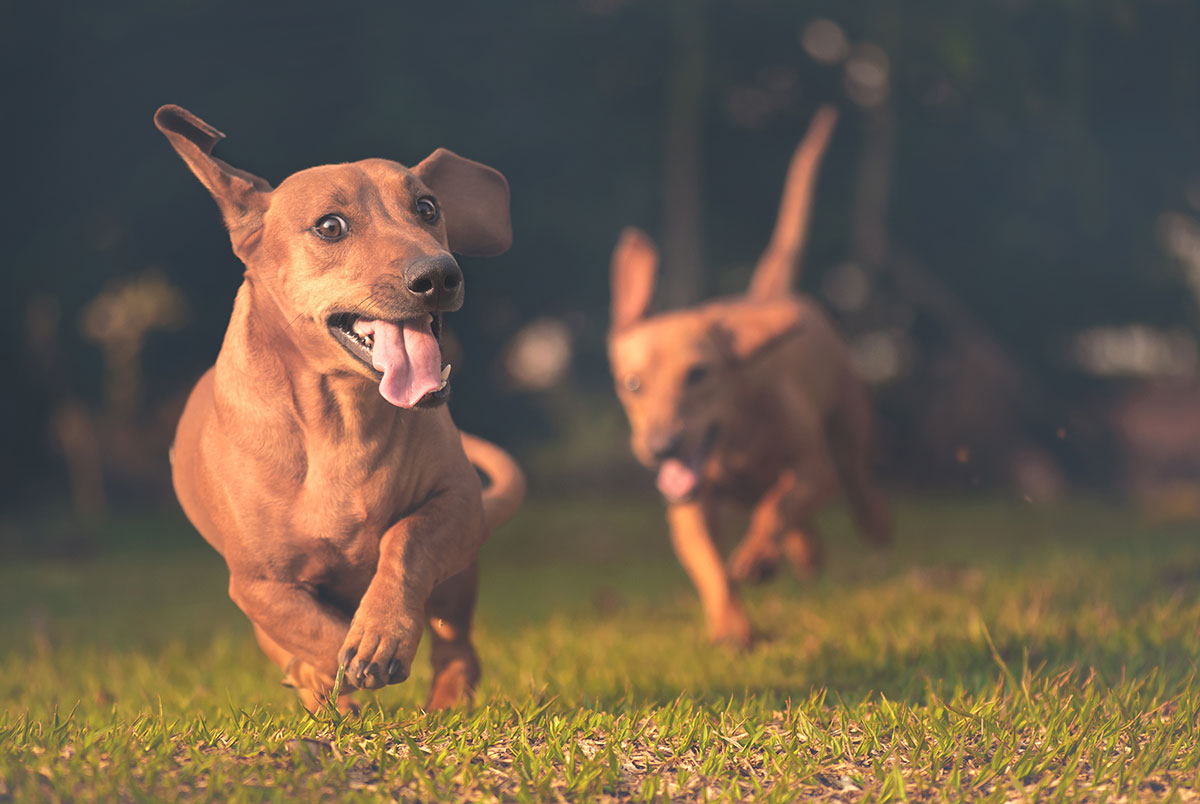
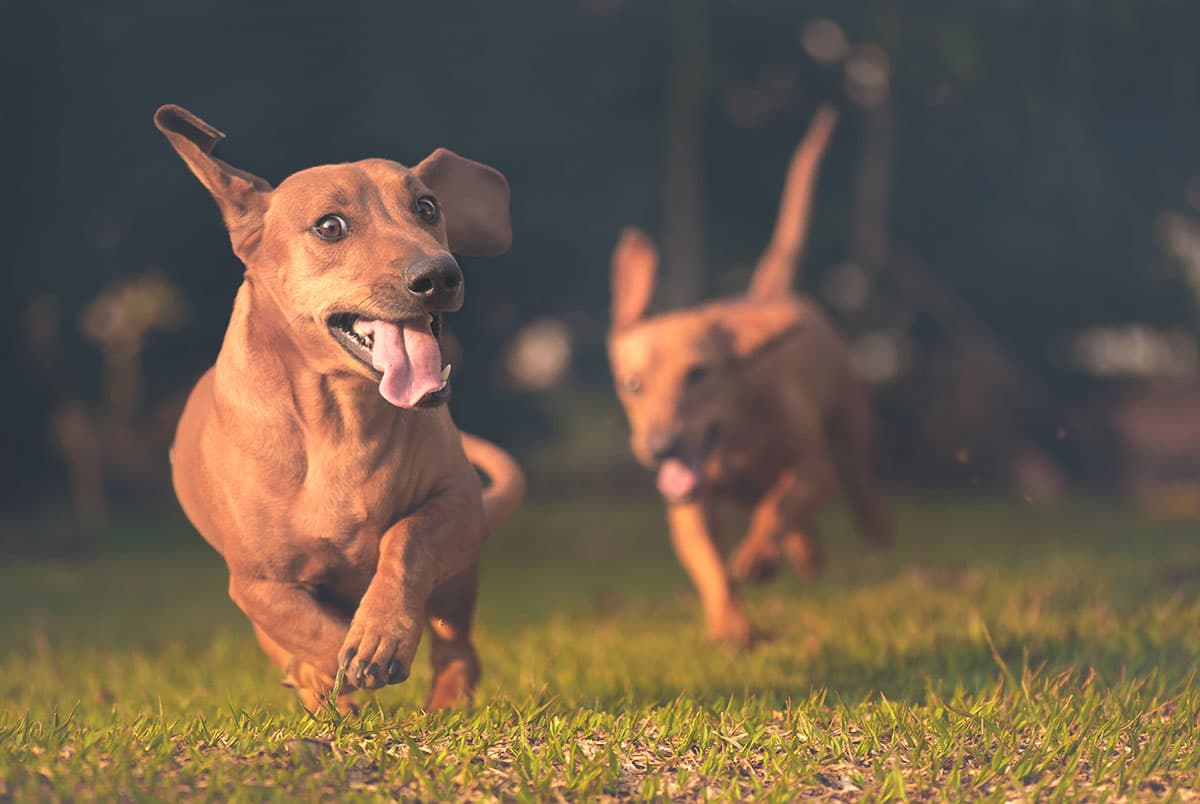
image optimisation

Changed region(s): [[0.0925, 0.8706, 1.0, 0.995]]

diff --git a/src/components/sections/CarteCabinet.tsx b/src/components/sections/CarteCabinet.tsx
@@ -1,4 +1,4 @@
-import React from 'react';
+import { useEffect } from 'react';
 import { useHasMounted } from '../../hooks/useHasMounted';
 
 import { Map } from '../common/icons';
@@ -13,9 +13,32 @@ type CarteCabinetProps = {
 
 export default function CarteCabinet({ id }: CarteCabinetProps) {
   const hasMounted = useHasMounted();
+
+  // Lazy load Mapbox CSS only when component mounts
+  useEffect(() => {
+    const link = document.createElement('link');
+    link.rel = 'stylesheet';
+    link.href = 'https://api.mapbox.com/mapbox-gl-js/v2.8.1/mapbox-gl.css';
+    document.head.appendChild(link);
+
+    return () => {
+      document.head.removeChild(link);
+    };
+  }, []);
   return (
-    <div id={id} className="relative bg-white pb-32 overflow-hidden">
+    <div
+      id={id}
+      className="relative bg-white pb-32 overflow-hidden min-h-[600px] sm:min-h-[650px]"
+    >
       <div className="relative">
+        <h2 className="pt-16 text-center text-3xl leading-8 font-extrabold tracking-tight text-gold-600 sm:text-4xl">
+          Consultations en Cabinet à Bègles
+        </h2>
+        <p className="mt-4 max-w-3xl mx-auto text-center text-xl text-gray-500">
+          Nous sommes ravis de vous accueillir dans notre cabinet situé à
+          Bègles. Profitez d'un environnement professionnel et adapté pour les
+          soins de vos animaux.
+        </p>
         <div className="lg:mx-auto lg:max-w-7xl lg:px-8 lg:grid lg:grid-cols-2 lg:grid-flow-col-dense lg:gap-24">
           <div className="px-4 max-w-xl mx-auto sm:px-6 lg:py-16 lg:max-w-none lg:mx-0 lg:px-0">
             <div>
@@ -60,6 +83,14 @@ export default function CarteCabinet({ id }: CarteCabinetProps) {
           <div className="mt-12 sm:mt-16 lg:mt-0" style={{ height: '400px' }}>
             <div className="lg:relative h-full sm:p-4">
               <div className="h-full sm:rounded-xl sm:shadow-xl ring-1 ring-black ring-opacity-5 overflow-hidden">
+                {!hasMounted && (
+                  <div className="h-full w-full flex items-center justify-center bg-gray-100">
+                    <div className="text-center">
+                      <div className="inline-block animate-spin rounded-full h-8 w-8 border-b-2 border-gold-500 mb-4"></div>
+                      <p className="text-gray-500">Chargement de la carte...</p>
+                    </div>
+                  </div>
+                )}
                 {hasMounted && (
                   <MapBox lng={LNG} lat={LAT} label="Cabinet de Bègles" />
                 )}

diff --git a/src/components/sections/AnimalSection/Section.tsx b/src/components/sections/AnimalSection/Section.tsx
@@ -6,11 +6,11 @@ type SectionProps = {
 };
 
 const animalImages: { [key: string]: string } = {
-  sectionChien: '/images/sectionChien.jpeg',
-  sectionChat: '/images/sectionChat.jpeg',
-  sectionCheval: '/images/sectionCheval.jpeg',
-  sectionVache: '/images/sectionVache.jpeg',
-  sectionLapin: '/images/sectionLapin.jpeg',
+  sectionChien: '/images/sectionChien.jpg',
+  sectionChat: '/images/sectionChat.jpg',
+  sectionCheval: '/images/sectionCheval.jpg',
+  sectionVache: '/images/sectionVache.jpg',
+  sectionLapin: '/images/sectionLapin.jpg',
 };
 
 export default function Section({ name, text, imageKey, alt }: SectionProps) {

diff --git a/.astro/types.d.ts b/.astro/types.d.ts
@@ -1,2 +1,1 @@
 /// <reference types="astro/client" />
-/// <reference path="content.d.ts" />
